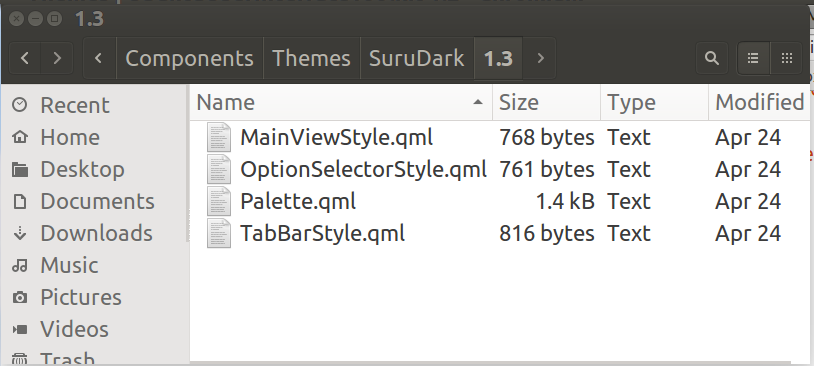
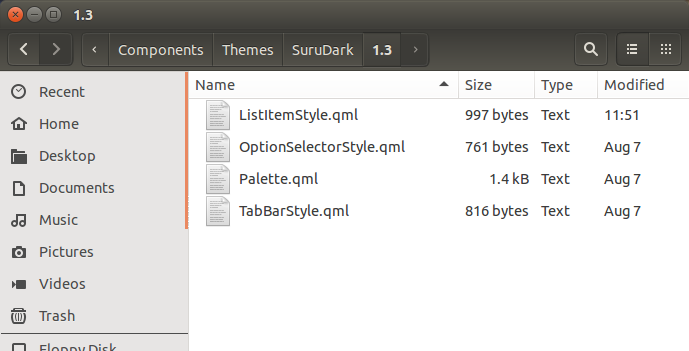
fix docs

diff --git a/src/Ubuntu/Components/Themes/SuruDark/1.3/ListItemStyle.qml b/src/Ubuntu/Components/Themes/SuruDark/1.3/ListItemStyle.qml
@@ -13,7 +13,7 @@
  * You should have received a copy of the GNU Lesser General Public License
  * along with this program.  If not, see <http://www.gnu.org/licenses/>.
  */
-
+//![0]
 import QtQuick 2.4
 import Ubuntu.Components.Themes.Ambiance 1.3 as Ambiance
 
@@ -23,3 +23,4 @@ Ambiance.ListItemStyle {
     // 40% lighter than foreground color
     trailingForegroundColor: Qt.lighter(theme.palette.normal.foreground, 1.4)
 }
+//![0]
